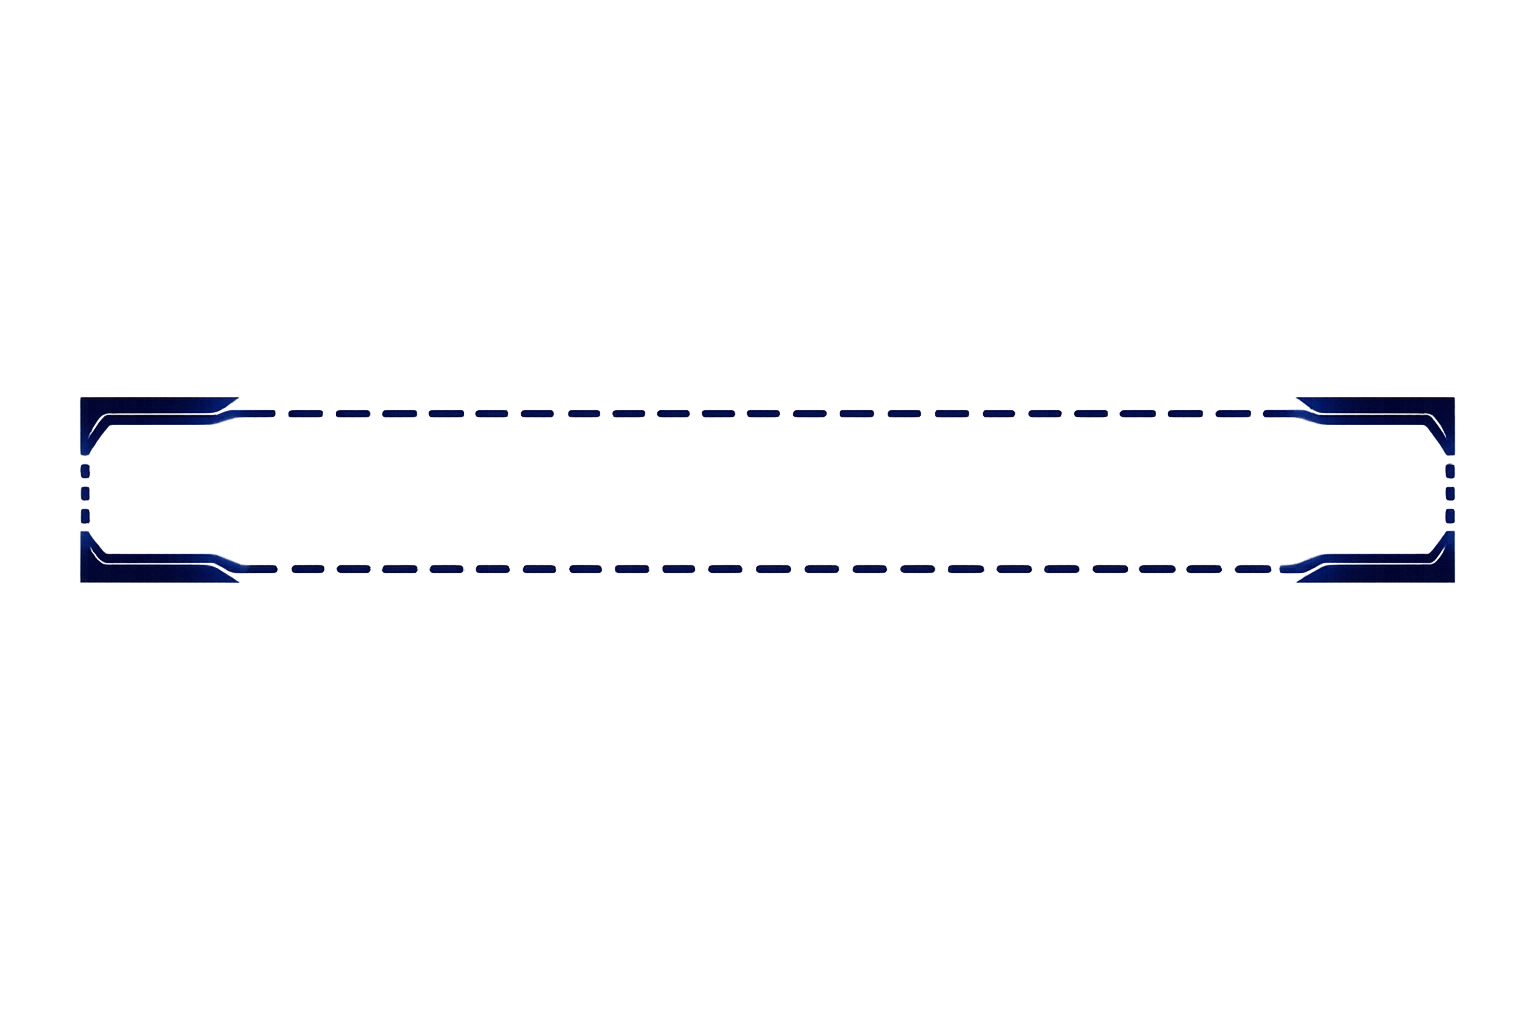
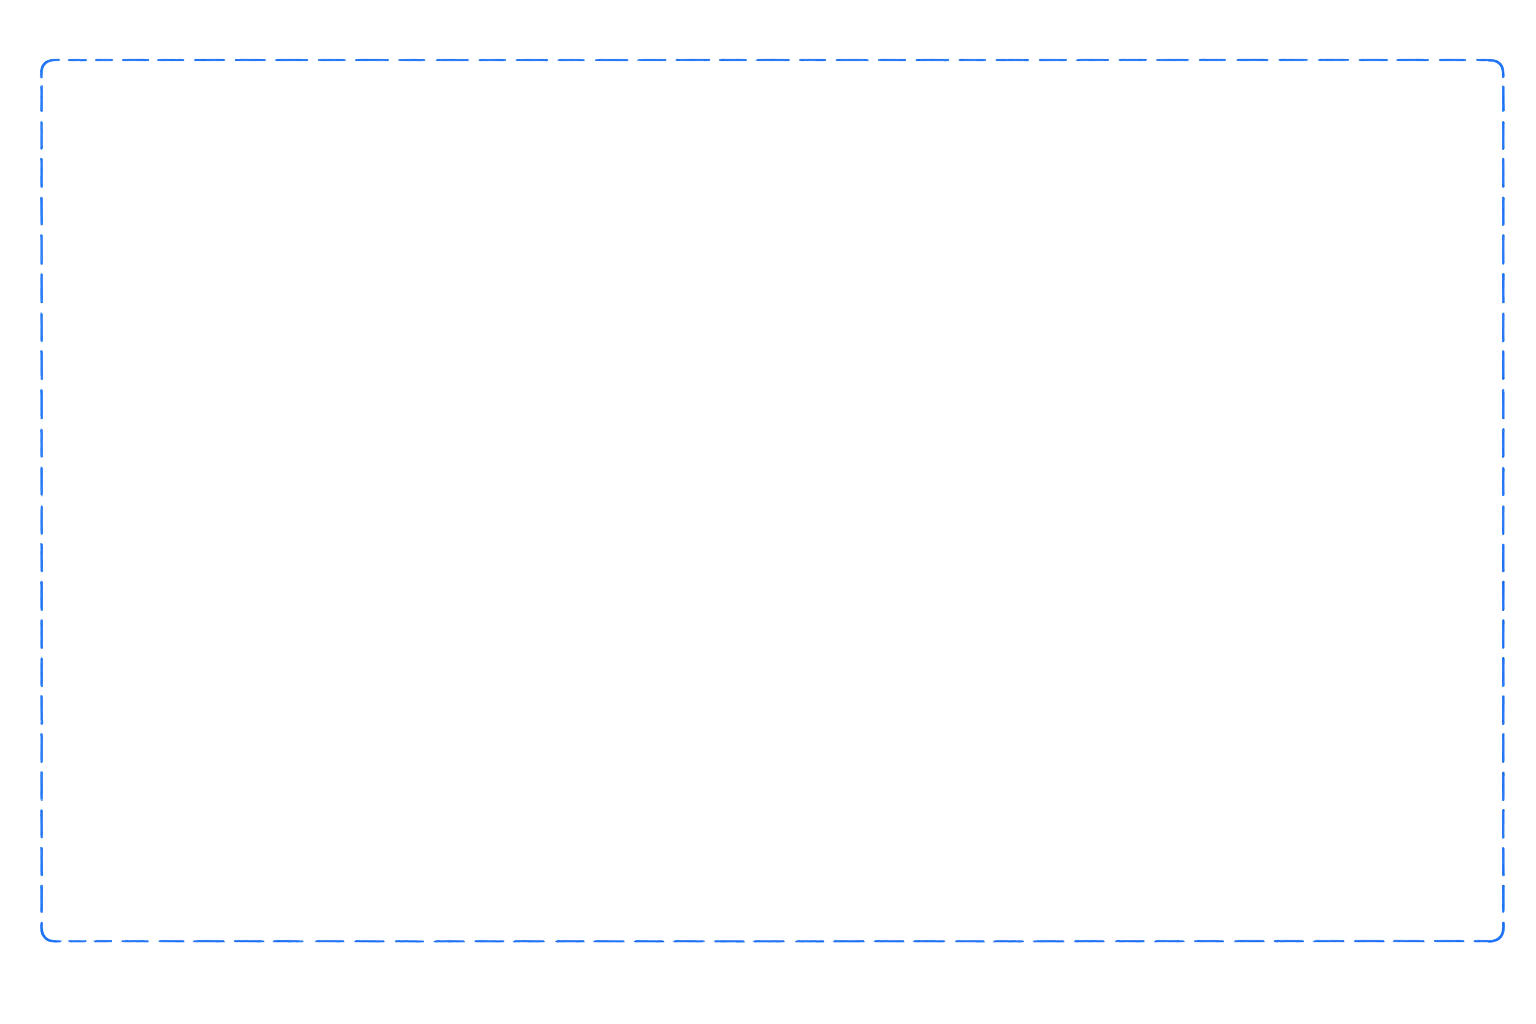
Adicionado botão importar, Label tracejado e Textos

Changed region(s): [[0.0312, 0.375, 0.9688, 0.5938]]

diff --git a/gui/frame_principal.py b/gui/frame_principal.py
@@ -1,20 +1,23 @@
 import customtkinter as ctk
 from PIL import Image
 
+from utils.centralizar import centralizar_widget
+
 def frame_p(janela):
 
     frame_principal = ctk.CTkFrame(
         master=janela,
         width=770,
         height=580,
-        fg_color="#13153A",
+        fg_color="#1E293B",
         corner_radius=20
     )
 
     frame_principal.place(x=220, y=10)
     texto_importarNFe(frame_principal)
     sub_importar(frame_principal)
-    frame_tracejado(frame_principal)
+    imagem_tracejada(frame_principal)
+    frame_tracejado(frame_principal) 
     
 
 def texto_importarNFe(frame):
@@ -35,14 +38,25 @@ def sub_importar(frame):
     )
     sub_texto_importar.place(x=20, y=60)
 
+def imagem_tracejada(frame):
+    broda_tracejada = ctk.CTkImage(
+        light_image=Image.open("assets/imagens/borda_tracejada.png"),
+        dark_image=Image.open("assets/imagens/borda_tracejada.png"),
+        size=(730, 400)
+    )
+
+    label_borda = ctk.CTkLabel(frame, image=broda_tracejada, text="")
+    label_borda.place(x=20, y=100)
+
 def frame_tracejado (frame):
     frame_tracejado = ctk.CTkFrame(
         master=frame,
-        width=730,
-        height=400,
-        fg_color="#1A1D3B",
-        corner_radius=20
+        width=693,
+        height=342,
+        fg_color="#273449",
+        
     )
+    frame_tracejado.place(x=40, y=125)
 
-    frame_tracejado.place(x=20, y=100)
+
 

diff --git a/gui/frame_esquerdo.py b/gui/frame_esquerdo.py
@@ -7,7 +7,7 @@ def frame_e(janela):
         master=janela,
         width=200,
         height=580,
-        fg_color="#13153A",
+        fg_color="#172554",
         corner_radius=20
     )
 
@@ -16,6 +16,7 @@ def frame_e(janela):
     imagem_principal(frame_esquerdo)
     nome_app(frame_esquerdo)
     texto_app(frame_esquerdo)
+    botao_importar(frame_esquerdo)
 
 
 def imagem_principal(frame):
@@ -48,3 +49,27 @@ def texto_app(frame):
     )
 
     centralizar_widget(texto_aplicativo, frame, y=165)
+
+def botao_importar(frame):
+    imagem_importar = ctk.CTkImage(
+        light_image=Image.open("assets/imagens/importar_arquivos.png"),
+        dark_image=Image.open("assets/imagens/importar_arquivos.png"),
+        size=(40, 40),
+    )
+
+    
+    botao_importar = ctk.CTkButton(
+        frame,
+        text="Importar NF-e",
+        image=imagem_importar,
+        compound="left",
+        width=150,
+        height=40,
+        fg_color="#1E52A7",
+        hover_color="#2563EB",
+        corner_radius=20,
+        text_color="white",
+        font=("Arial", 15, "bold")
+    )
+
+    centralizar_widget(botao_importar, frame, y=220)

diff --git a/config/configuracoes.py b/config/configuracoes.py
@@ -1,6 +1,8 @@
 import customtkinter as ctk
 
+
 def configuracoes_janela (janela):
     ctk.set_appearance_mode ('dark')
     janela.resizable(False, False)
-    janela.configure (fg_color = "#11132E")
+    janela.configure (fg_color = "#0F172A")
+    janela.iconbitmap("assets/icones/icone_leitor.ico")
